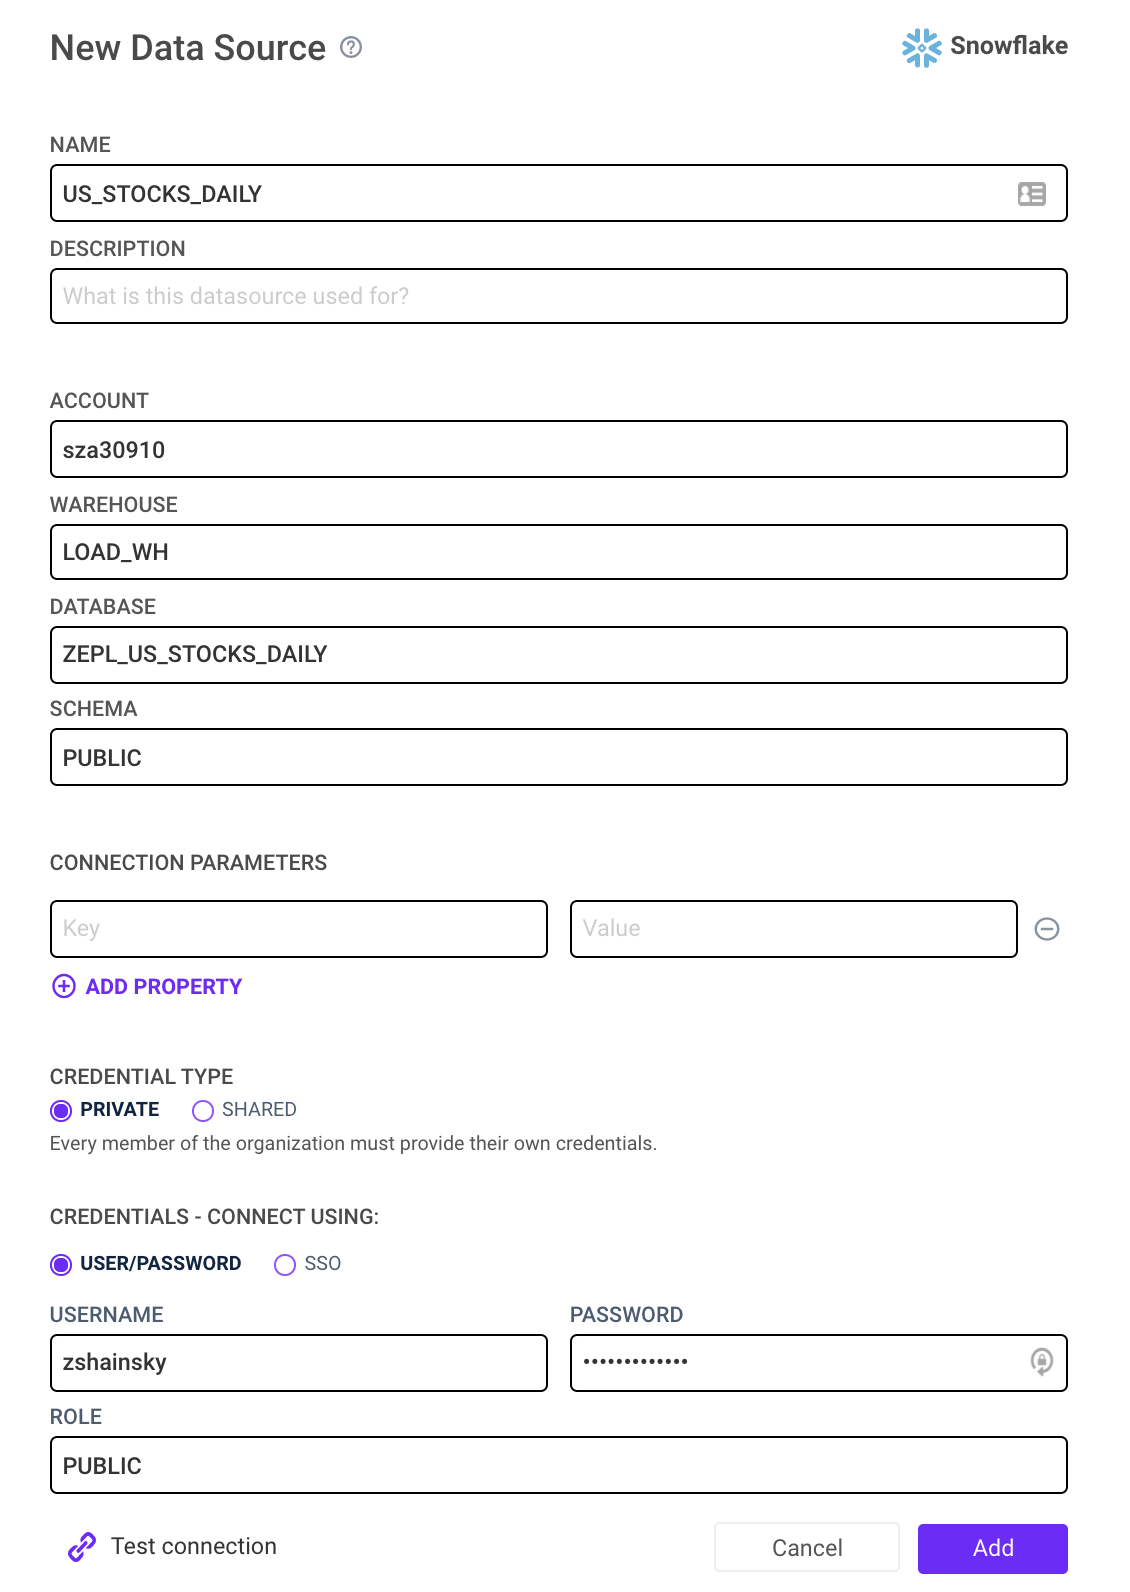
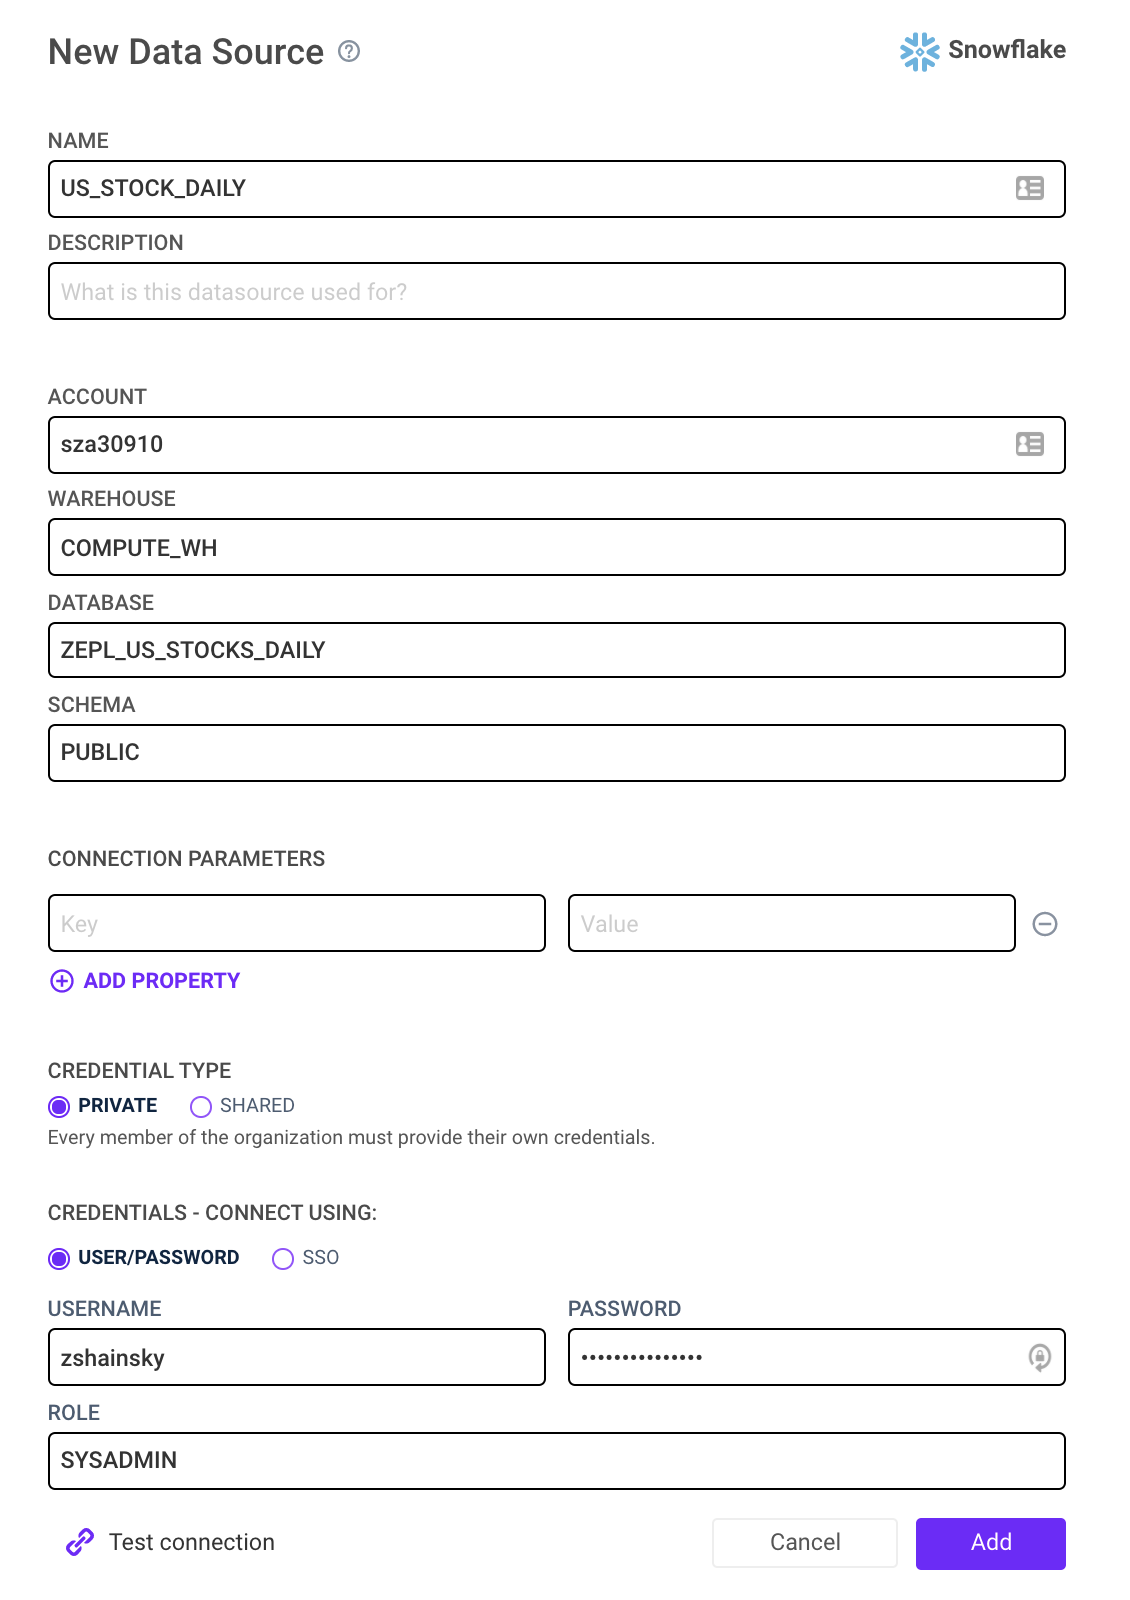
Added Query Snowflake section. Fixed small mistakes here and there.

diff --git a/site/devlabs/time_series_forecasting_with_zepl.md b/site/devlabs/time_series_forecasting_with_zepl.md
@@ -59,7 +59,7 @@ SELECT * FROM "ZEPL_US_STOCKS_DAILY"."PUBLIC"."STOCK_HISTORY" LIMIT 10
 ```
 
 Check if privileges are set correctly:
-This database needs to have `SELECT` privileges for a Role that your user has access to. Setting the `SELECT` privlage for the PUBLIC role will allow all users to read data from this database.
+This database needs to have `SELECT` privileges for a Role that your user has access to. Setting the `SELECT` privilege for the PUBLIC role will allow all users to read data from this database.
 * View privilege: [Doc](https://docs.snowflake.com/en/sql-reference/sql/show-grants.html)
 * Assign privileges: [Doc](https://docs.snowflake.com/en/sql-reference/sql/grant-privilege.html)
 
@@ -79,7 +79,8 @@ Duration: 5
 </br> <img src="./assets/zepl_us_stock_datasource.png" width="600" height="900" />
 
 * __Account Details:__ Account, Warehouse, Database, and Schema should all match the values entered in Step 2
-* __Credentials:__ Username, Password, and Role should match the Snowflake user and role with permissions to query this database
+* __Credentials:__ Username, and Password and should match the Snowflake user and role with permissions to query this database
+ * __ROLE:__ Be sure this role has permissions to run the specified WAREHOUSE
 * __Credential Type:__ [Learn more here](https://new-docs.zepl.com/docs/connect-to-data/zepl-data-sources#data-source-security)
 
 #### *Troubleshooting* 
@@ -109,24 +110,24 @@ Zepl Containers are isolated environments that are used to execute code. Paired 
 
 __Image:__ [Doc](https://new-docs.zepl.com/docs/configure-infrastructure/images)
 
-Zepl Images can help you and your team save significant time by making creating reproducible environments for all notebooks to access. The Zepl Image builds all of the libaries required to run a notebook so your users dont have to worry about long wait times for installing libraries at the beginning of every notebook and hoping that each notebook environment is configured the same.
+Zepl Images can help you and your team save significant time by making creating reproducible environments for all notebooks to access. The Zepl Image builds all of the libraries required to run a notebook so your users don't have to worry about long wait times for installing libraries at the beginning of every notebook and hoping that each notebook environment is configured the same.
 
 __Spaces:__ [Doc](https://new-docs.zepl.com/docs/manage-your-organization/spaces)
 
 A Zepl Space is a collection of notebooks that can be shared with built-in access controls.  The "My Notebooks" space is a private space dedicated to your user only. Typically, new spaces are created for a specific project or working group; it's a place for a group of people who are working together on a set of data science problems.
 
-### Importing an existing notebook
+### Importing an existing notebook (optional)
 Positive
-: Complete notebook code can be found here: [Notebook](https://app.zepl.com/placecholder)
+: Complete notebook code can be found here: TODO: [Notebook](https://app.zepl.com/placecholder)
 
 [Zepl Documentation](https://new-docs.zepl.com/docs/using-the-zepl-notebook/zepl-notebook-experience/importing-notebooks)
 
 1. From any screen, Select _Add New_ (upper left)
 2. Select _+ Import Notebook_
 3. Type: _Fetch From URL_
-4. Paste either link in the textfield labeled _Link to your notebook_: 
- * link from Zepl's Published Notebook: `https://app.zepl.com/viewonlynotebook`
- * link from Github repository: `https://github.repo.reponame/viewonlynotebook`
+4. Paste either link in the text field labeled _Link to your notebook_: 
+ TODO: * link from Zepl's Published Notebook: `https://app.zepl.com/viewonlynotebook`
+ TODO: * link from Github repository: `https://github.repo.reponame/viewonlynotebook`
 5. Apply
 
 TODO: Insert Picture of final notebook...
@@ -134,7 +135,58 @@ TODO: Insert Picture of final notebook...
 <!-- ------------------------ -->
 ## Query Snowflake
 Duration: 5
-#### Attach Snowflake Data Source
+### Attach Snowflake Data Source
+[Zepl Documentation](https://new-docs.zepl.com/docs/connect-to-data/zepl-data-sources#attaching-a-data-source)
+1. In your notebook, select the Data Source icon <img src="./assets/zepl_datasource_icon.png" width="35" /> on the right hand side of the screen.
+2. Select the plus icon next to the data source labeled 'US_STOCKS_DAILY' which you created in step 3. </br>
+<img src="./assets/zepl_attach_datasource.png" width="350"/>
+
+### In the Zepl Notebook:
+First, Add this code to the first paragraph:
+
+```python
+%python
+import pandas as pd
+
+# Create a Snowflake Cursor Object
+cur = z.getDatasource("US_STOCKS_DAILY")
+
+# Un-comment if warehouse is not specified in the Data Source
+# cur.execute("USE WAREHOUSE COMPUTE_WH")
+
+# execute query
+cur.execute("""SELECT * FROM ZEPL_US_STOCKS_DAILY.PUBLIC.STOCK_HISTORY LIMIT 100""")
+
+# convert datasource into pandas dataframe
+df_100 = cur.fetch_pandas_all()
+
+# print dataframe as table
+z.show(df_100)
+```
+
+Second, Select Run Paragraph: <br/> 
+<img src="./assets/zepl_query_snowflake_simple.png" />
+
+#### Code Explained
+`import pandas as pd` <br/>
+Zepl's General Purpose Image pre-installs the pandas library so all you have to do is import.
+
+`cur = z.getDatasource("US_STOCKS_DAILY")`<br/>
+This function is used to access any data source that is attached to the notebook. A [Cursor object](https://docs.snowflake.com/en/user-guide/python-connector-api.html#object-cursor) is returned to the `cur` variable. The specific data source is specified by setting the string input to the corresponding name of your data source. Lastly, the data source must be attached to the notebook before starting the container.
+
+`cur.execute("""SELECT * FROM ZEPL_US_STOCKS_DAILY.PUBLIC.STOCK_HISTORY LIMIT 100""")`<br/>
+This will execute a specified query in Snowflake. 
+
+`df_100 = cur.fetch_pandas_all()`<br/>
+Return a Pandas DataFrame to the `df_100` variable using. See documentation for more details [here](https://docs.snowflake.com/en/user-guide/python-connector-api.html#fetch_pandas_all)
+
+### Troubleshooting:
+* A data source must be attached to the notebook while the container is _Stopped_.
+* Start your container and restart it any time you make a change to your data source, such as updating Account Details or Credentials.
+* Several Errors to look out for
+`ProgrammingError: 000606 (57P03): No active warehouse selected in the current session.  Select an active warehouse with the 'use warehouse' command.`
+Resolution:
+...
 
 
 
@@ -146,7 +198,7 @@ Duration: 5
 Zepl provides several options for loading libraries. The two most used are Custom Images ([Account Activation Required](https://new-docs.zepl.com/docs/getting-started/trial-and-billing#activate-your-organization)) and install during notebook run time. For this guide we will use the python package manager `pip` to install all of our required libraries
 
 ### In the Zepl Notebook:
-Add this code to the first paragraph and select run paragraph:
+Add this code to the first paragraph and select run paragraph <img src="" />:
 ```sh
 %python
 # Install fbprophet Deendencies
@@ -170,7 +222,6 @@ Add this code to the first paragraph and select run paragraph:
 ```python
 %python
 # Import Libraries
-import pandas as pd
 from fbprophet import Prophet
 ```
 
